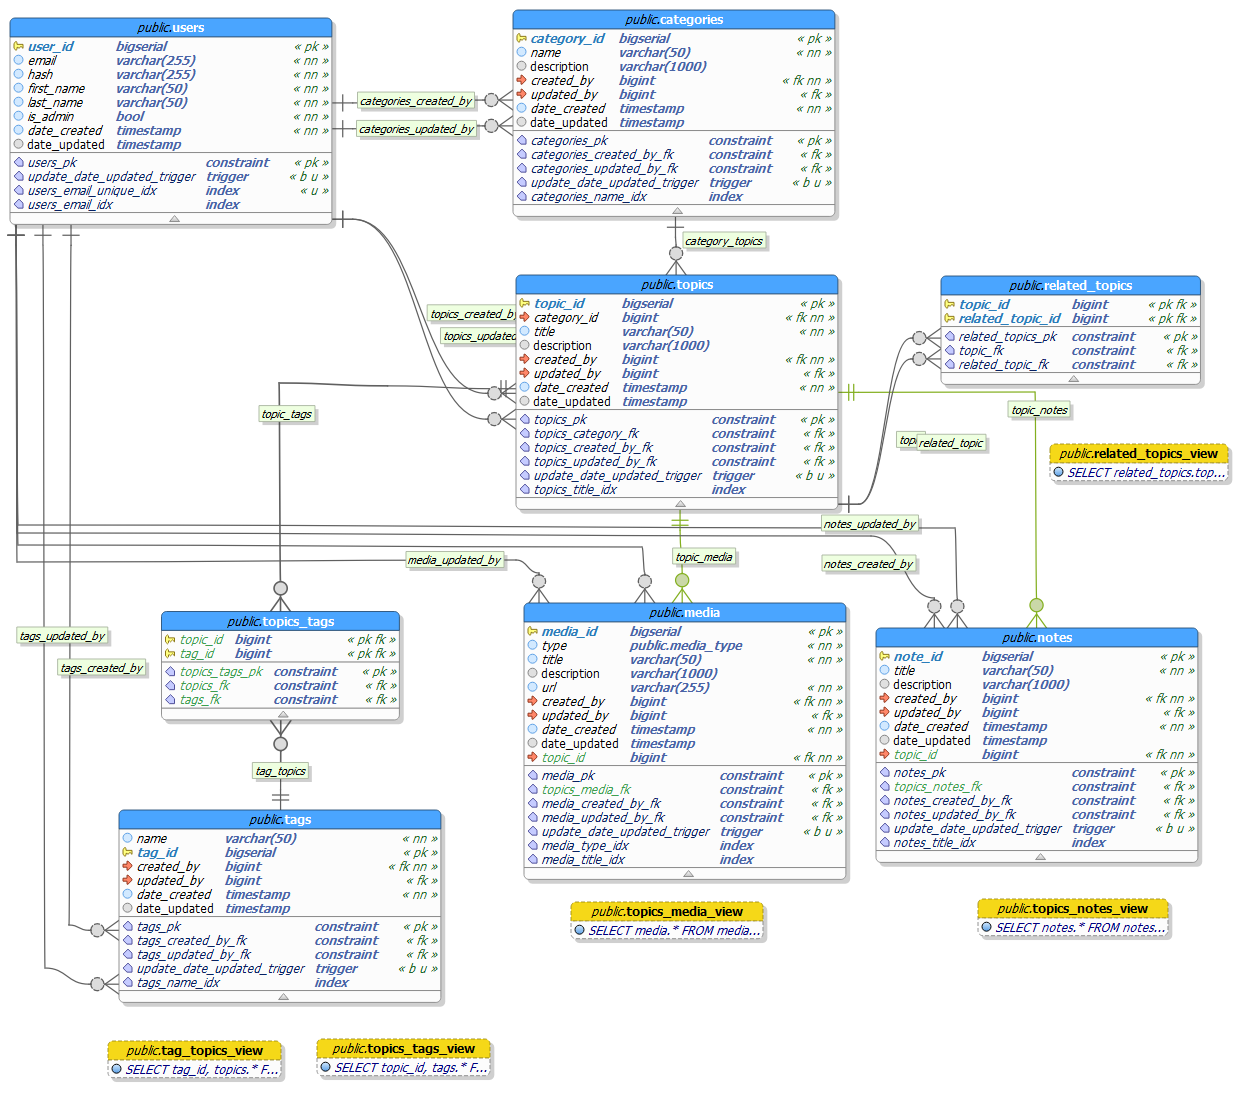
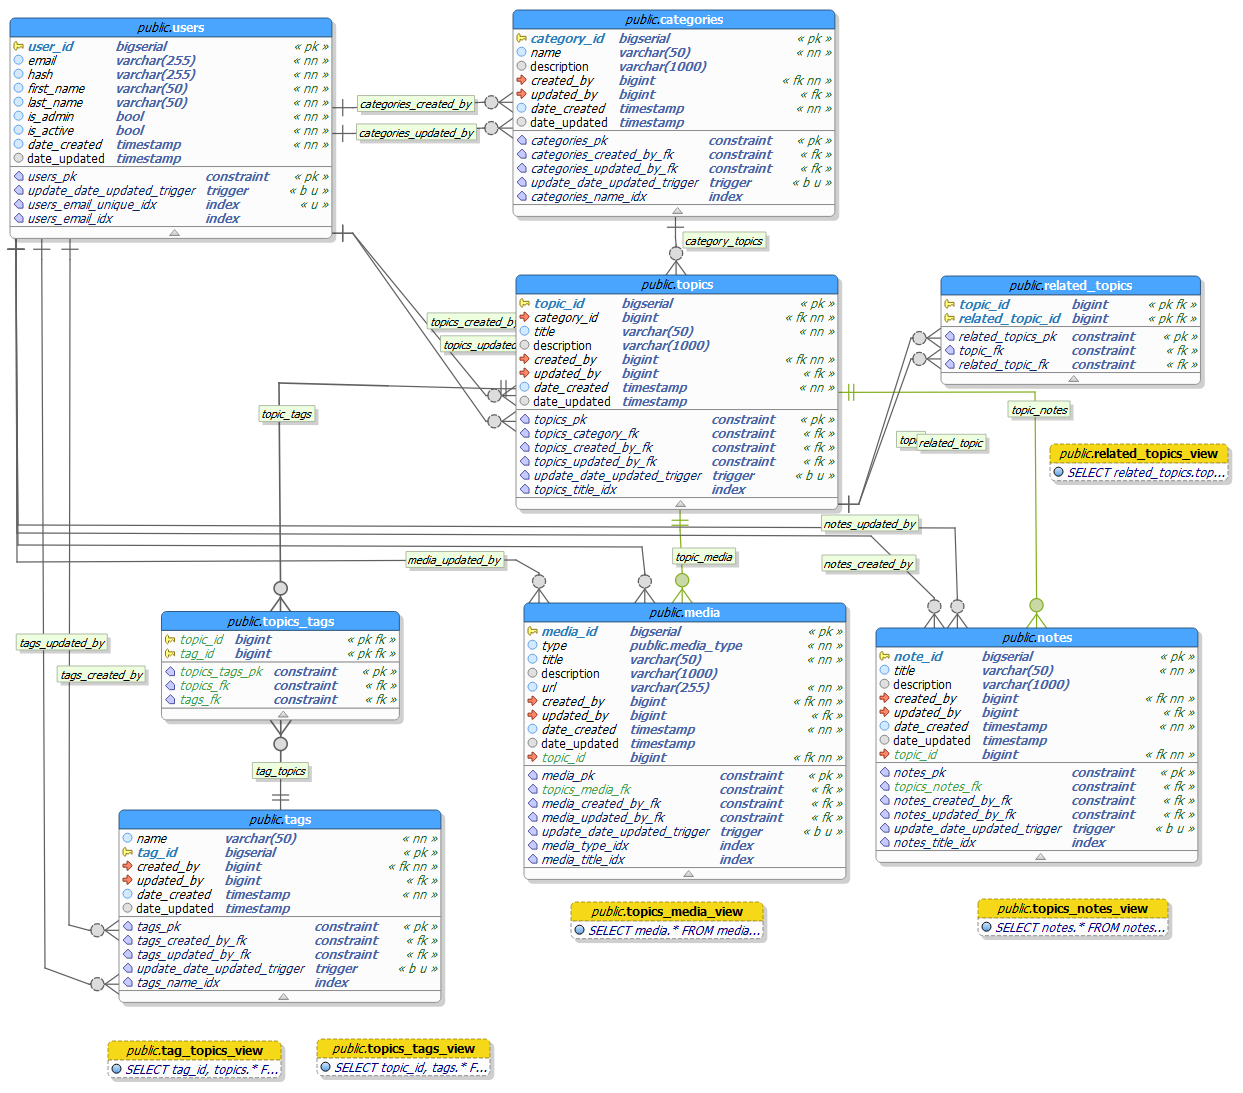
Add IsActive flag to user model and handlers.

diff --git a/API/models/user.xo.go b/API/models/user.xo.go
@@ -15,6 +15,7 @@ type User struct {
 	FirstName string `json:"first_name"` // first_name
 	LastName  string `json:"last_name"`  // last_name
 	IsAdmin   bool   `json:"is_admin"`   // is_admin
+	IsActive  bool   `json:"is_active"`  // is_active
 
 	// xo fields
 	_exists, _deleted bool
@@ -41,14 +42,14 @@ func (u *User) Insert(db XODB) error {
 
 	// sql insert query, primary key provided by sequence
 	const sqlstr = `INSERT INTO public.users (` +
-		`email, hash, first_name, last_name, is_admin` +
+		`email, hash, first_name, last_name, is_admin, is_active` +
 		`) VALUES (` +
-		`$1, $2, $3, $4, $5` +
+		`$1, $2, $3, $4, $5, $6` +
 		`) RETURNING user_id`
 
 	// run query
-	XOLog(sqlstr, u.Email, u.Hash, u.FirstName, u.LastName, u.IsAdmin)
-	err = db.QueryRow(sqlstr, u.Email, u.Hash, u.FirstName, u.LastName, u.IsAdmin).Scan(&u.UserID)
+	XOLog(sqlstr, u.Email, u.Hash, u.FirstName, u.LastName, u.IsAdmin, u.IsActive)
+	err = db.QueryRow(sqlstr, u.Email, u.Hash, u.FirstName, u.LastName, u.IsAdmin, u.IsActive).Scan(&u.UserID)
 	if err != nil {
 		return err
 	}
@@ -75,14 +76,14 @@ func (u *User) Update(db XODB) error {
 
 	// sql query
 	const sqlstr = `UPDATE public.users SET (` +
-		`email, hash, first_name, last_name, is_admin` +
+		`email, hash, first_name, last_name, is_admin, is_active` +
 		`) = ( ` +
-		`$1, $2, $3, $4, $5` +
-		`) WHERE user_id = $6`
+		`$1, $2, $3, $4, $5, $6` +
+		`) WHERE user_id = $7`
 
 	// run query
-	XOLog(sqlstr, u.Email, u.Hash, u.FirstName, u.LastName, u.IsAdmin, u.UserID)
-	_, err = db.Exec(sqlstr, u.Email, u.Hash, u.FirstName, u.LastName, u.IsAdmin, u.UserID)
+	XOLog(sqlstr, u.Email, u.Hash, u.FirstName, u.LastName, u.IsAdmin, u.IsActive, u.UserID)
+	_, err = db.Exec(sqlstr, u.Email, u.Hash, u.FirstName, u.LastName, u.IsAdmin, u.IsActive, u.UserID)
 	return err
 }
 
@@ -108,18 +109,18 @@ func (u *User) Upsert(db XODB) error {
 
 	// sql query
 	const sqlstr = `INSERT INTO public.users (` +
-		`user_id, email, hash, first_name, last_name, is_admin` +
+		`user_id, email, hash, first_name, last_name, is_admin, is_active` +
 		`) VALUES (` +
-		`$1, $2, $3, $4, $5, $6` +
+		`$1, $2, $3, $4, $5, $6, $7` +
 		`) ON CONFLICT (user_id) DO UPDATE SET (` +
-		`user_id, email, hash, first_name, last_name, is_admin` +
+		`user_id, email, hash, first_name, last_name, is_admin, is_active` +
 		`) = (` +
-		`EXCLUDED.user_id, EXCLUDED.email, EXCLUDED.hash, EXCLUDED.first_name, EXCLUDED.last_name, EXCLUDED.is_admin` +
+		`EXCLUDED.user_id, EXCLUDED.email, EXCLUDED.hash, EXCLUDED.first_name, EXCLUDED.last_name, EXCLUDED.is_admin, EXCLUDED.is_active` +
 		`)`
 
 	// run query
-	XOLog(sqlstr, u.UserID, u.Email, u.Hash, u.FirstName, u.LastName, u.IsAdmin)
-	_, err = db.Exec(sqlstr, u.UserID, u.Email, u.Hash, u.FirstName, u.LastName, u.IsAdmin)
+	XOLog(sqlstr, u.UserID, u.Email, u.Hash, u.FirstName, u.LastName, u.IsAdmin, u.IsActive)
+	_, err = db.Exec(sqlstr, u.UserID, u.Email, u.Hash, u.FirstName, u.LastName, u.IsAdmin, u.IsActive)
 	if err != nil {
 		return err
 	}
@@ -164,7 +165,7 @@ func (u *User) Delete(db XODB) error {
 // that are paginated by the limit and offset inputs.
 func GetRecentPaginatedUsers(db XODB, limit int, offset int) ([]*User, error) {
 	const sqlstr = `SELECT ` +
-		`user_id, email, hash, first_name, last_name, is_admin ` +
+		`user_id, email, hash, first_name, last_name, is_admin, is_active ` +
 		`FROM public.users ` +
 		`ORDER BY date_created DESC ` +
 		`LIMIT $1 OFFSET $2`
@@ -181,7 +182,7 @@ func GetRecentPaginatedUsers(db XODB, limit int, offset int) ([]*User, error) {
 		u := User{}
 
 		// scan
-		err = q.Scan(&u.UserID, &u.Email, &u.Hash, &u.FirstName, &u.LastName, &u.IsAdmin)
+		err = q.Scan(&u.UserID, &u.Email, &u.Hash, &u.FirstName, &u.LastName, &u.IsAdmin, &u.IsActive)
 		if err != nil {
 			return nil, err
 		}
@@ -200,7 +201,7 @@ func UsersByEmail(db XODB, email string) ([]*User, error) {
 
 	// sql query
 	const sqlstr = `SELECT ` +
-		`user_id, email, hash, first_name, last_name, is_admin ` +
+		`user_id, email, hash, first_name, last_name, is_admin, is_active ` +
 		`FROM public.users ` +
 		`WHERE email = $1`
 
@@ -220,7 +221,7 @@ func UsersByEmail(db XODB, email string) ([]*User, error) {
 		}
 
 		// scan
-		err = q.Scan(&u.UserID, &u.Email, &u.Hash, &u.FirstName, &u.LastName, &u.IsAdmin)
+		err = q.Scan(&u.UserID, &u.Email, &u.Hash, &u.FirstName, &u.LastName, &u.IsAdmin, &u.IsActive)
 		if err != nil {
 			return nil, err
 		}
@@ -239,7 +240,7 @@ func UserByUserID(db XODB, userID int64) (*User, error) {
 
 	// sql query
 	const sqlstr = `SELECT ` +
-		`user_id, email, hash, first_name, last_name, is_admin ` +
+		`user_id, email, hash, first_name, last_name, is_admin, is_active ` +
 		`FROM public.users ` +
 		`WHERE user_id = $1`
 
@@ -249,7 +250,7 @@ func UserByUserID(db XODB, userID int64) (*User, error) {
 		_exists: true,
 	}
 
-	err = db.QueryRow(sqlstr, userID).Scan(&u.UserID, &u.Email, &u.Hash, &u.FirstName, &u.LastName, &u.IsAdmin)
+	err = db.QueryRow(sqlstr, userID).Scan(&u.UserID, &u.Email, &u.Hash, &u.FirstName, &u.LastName, &u.IsAdmin, &u.IsActive)
 	if err != nil {
 		return nil, err
 	}

diff --git a/API/docs/docs.go b/API/docs/docs.go
@@ -391,6 +391,10 @@ var doc = `{
                     "description": "hash",
                     "type": "string"
                 },
+                "is_active": {
+                    "description": "is_active",
+                    "type": "boolean"
+                },
                 "is_admin": {
                     "description": "is_admin",
                     "type": "boolean"
@@ -419,6 +423,10 @@ var doc = `{
                 "first_name": {
                     "description": "first_name",
                     "type": "string"
+                },
+                "is_active": {
+                    "description": "is_active",
+                    "type": "boolean"
                 },
                 "is_admin": {
                     "description": "is_admin",

diff --git a/API/handlers/users.go b/API/handlers/users.go
@@ -94,6 +94,9 @@ func (h *Handler) UserLogin(c echo.Context) error {
 		return echo.ErrUnauthorized
 	}
 	user := users[0]
+	if !user.IsActive {
+		return echo.ErrUnauthorized
+	}
 	if !validatePassword(user.Hash, u.Password) {
 		return echo.ErrUnauthorized
 	}
@@ -208,8 +211,9 @@ func (h *Handler) UpdateUser(c echo.Context) error {
 	}
 
 	if isAdmin {
-		// Only Admin's can change this property
+		// Only Admin's can change these properties
 		existingUser.IsAdmin = u.IsAdmin
+		existingUser.IsActive = u.IsActive
 	}
 
 	hash, err := hashPassword(u.Password)

diff --git a/API/handlers/users_test.go b/API/handlers/users_test.go
@@ -28,7 +28,8 @@ var (
     "first_name": "Juke",
     "last_name": "Smith",
     "password": "Test-Password",
-	"is_admin": false}`, email1)
+	"is_admin": false,
+	"is_active": true}`, email1)
 
 	user1UpdateJSON = fmt.Sprintf(`{"email": "%s", 
     "first_name": "Jukie",
@@ -40,7 +41,8 @@ var (
     "first_name": "Jack",
     "last_name": "Smith",
     "password": "Test-Password",
-	"is_admin": false}`, email2)
+	"is_admin": false,
+	"is_active": true}`, email2)
 
 	user2UpdateJSON = fmt.Sprintf(`{"email": "%s", 
     "first_name": "Jackie",

diff --git a/API/models/userAuth.go b/API/models/userAuth.go
@@ -24,4 +24,5 @@ type UserUpdate struct {
 	FirstName string `json:"first_name"` // first_name
 	LastName  string `json:"last_name"`  // last_name
 	IsAdmin   bool   `json:"is_admin"`   // is_admin
+	IsActive  bool   `json:"is_active"`  // is_active
 }

diff --git a/README.md b/README.md
@@ -4,6 +4,23 @@ A web frontend and API for storing and retrieving knowledge obtained about varie
 
 ## Build Tools
 
+### Gendal
+
+Allows rebuilding the data access layer after database changes.
+
+Install:
+
+```sh
+go get github.com/turnkey-commerce/gendal
+```
+
+Build DB Access Layer:
+
+```sh
+cd API
+gendal
+```
+
 ### Fresh
 
 Allows hot loading of echo API.
